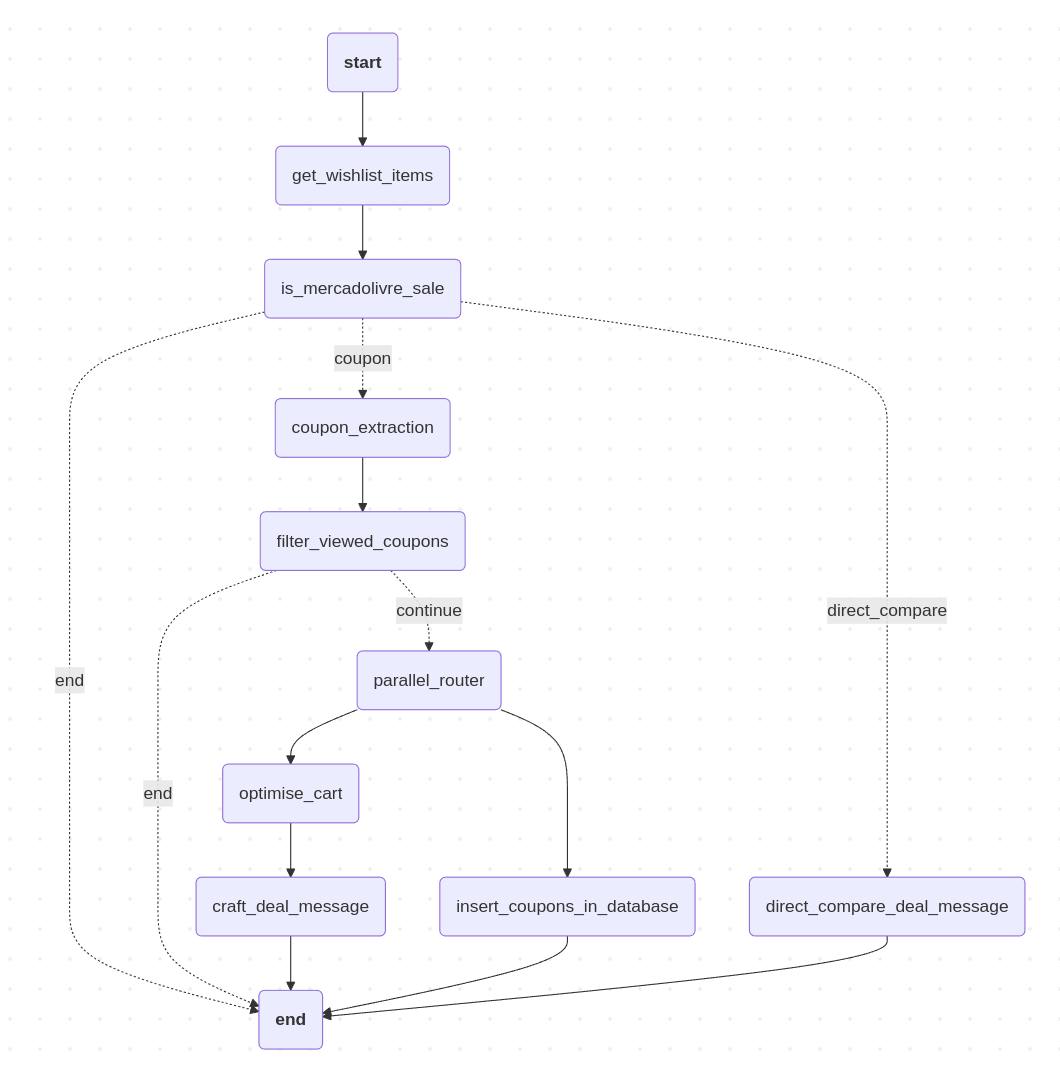
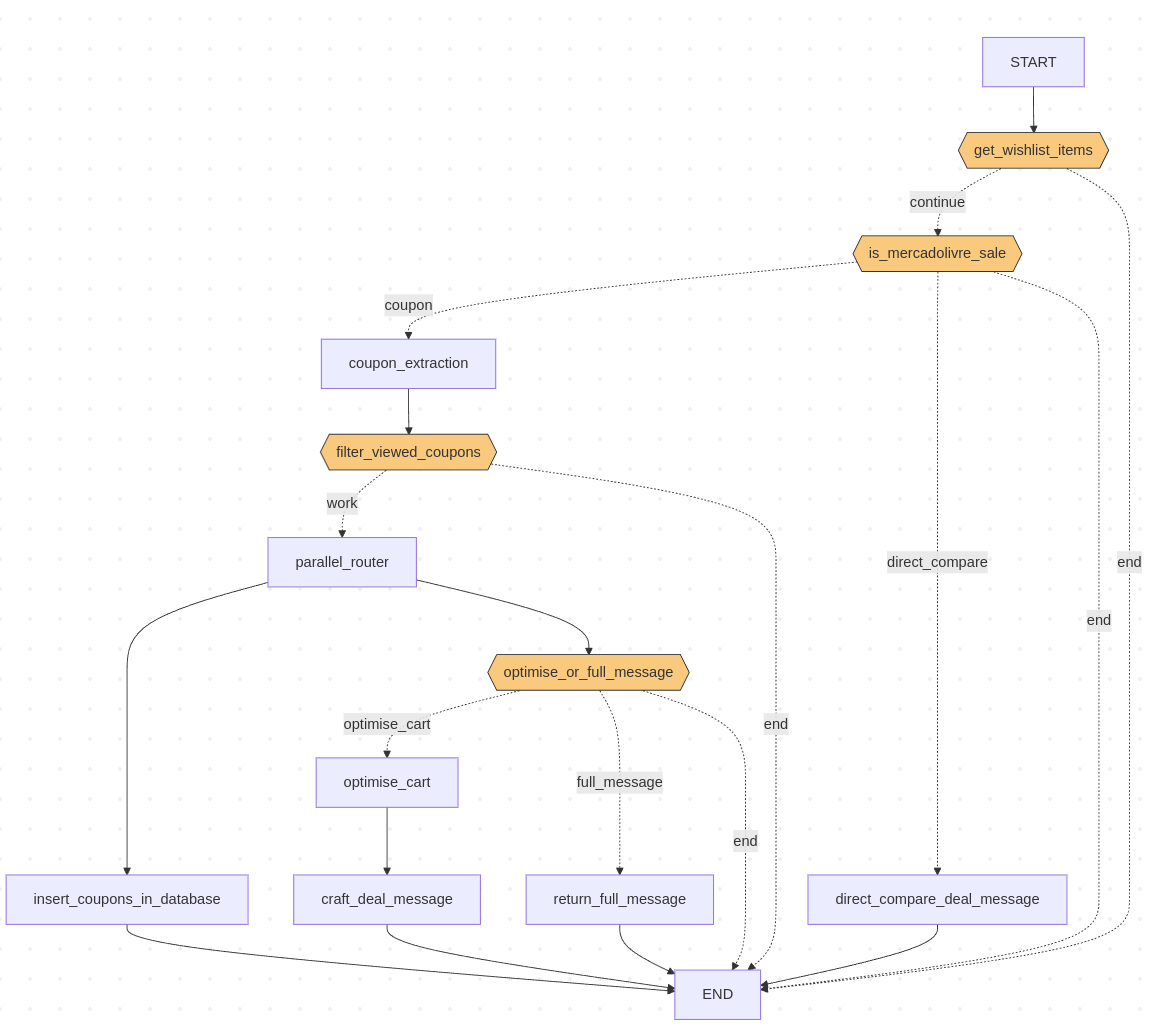
made changes to the workflow and to the postgres image to use embeddings

diff --git a/telegram_bots/sales_listener.py b/telegram_bots/sales_listener.py
@@ -5,6 +5,10 @@ import os
 from dotenv import load_dotenv
 import asyncio
 import sys
+import psycopg2
+from datetime import datetime
+from sentence_transformers import SentenceTransformer
+import numpy as np
 
 # Load environment variables
 load_dotenv()
@@ -40,6 +44,128 @@ DB_PORT = os.getenv("DATABASE_PORT", "5432")
 
 # Create connection string
 DATABASE_URL = f"postgresql://{DB_USER}:{DB_PASSWORD}@{DB_HOST}:{DB_PORT}/{DB_NAME}"
+
+# Initialize the embedding model (lazy loading - will load on first use)
+embedding_model = None
+
+def get_embedding_model():
+    """Get or initialize the embedding model"""
+    global embedding_model
+    if embedding_model is None:
+        # Load the model - this will download it if not already present
+        print("Loading embedding model...")
+        embedding_model = SentenceTransformer('all-MiniLM-L6-v2')
+        print("Embedding model loaded")
+    return embedding_model
+
+def get_embedding(text):
+    """Generate embedding for the given text using MiniLM"""
+    try:
+        if not text or text.strip() == "":
+            return None
+            
+        # Truncate text if it's too long
+        if len(text) > 5000:  # Arbitrary limit to avoid memory issues
+            text = text[:5000]
+            
+        model = get_embedding_model()
+        embedding = model.encode(text)
+        
+        # Convert to list for database storage
+        return embedding.tolist()
+    except Exception as e:
+        print(f"Error generating embedding: {e}")
+        return None
+
+def get_db_connection():
+    """Create and return a database connection"""
+    conn = psycopg2.connect(
+        user=DB_USER,
+        password=DB_PASSWORD,
+        host=DB_HOST,
+        port=DB_PORT,
+        database=DB_NAME
+    )
+    return conn
+
+def store_message(chat_title, message_text, message_id, sender_id):
+    """Store the message and its embedding in the database"""
+    try:
+        # Generate embedding for the message
+        embedding = get_embedding(message_text)
+        
+        conn = get_db_connection()
+        cursor = conn.cursor()
+        
+        # Insert the message into the telegram_messages table with embedding
+        if embedding:
+            cursor.execute(
+                """
+                INSERT INTO telegram_messages (chat_title, message_text, message_id, sender_id, embedding)
+                VALUES (%s, %s, %s, %s, %s)
+                """,
+                (chat_title, message_text, message_id, sender_id, embedding)
+            )
+        else:
+            # Insert without embedding if generation failed
+            cursor.execute(
+                """
+                INSERT INTO telegram_messages (chat_title, message_text, message_id, sender_id)
+                VALUES (%s, %s, %s, %s)
+                """,
+                (chat_title, message_text, message_id, sender_id)
+            )
+        
+        conn.commit()
+        cursor.close()
+        conn.close()
+        print(f"Message stored in database with embedding. ID: {message_id}")
+    except Exception as e:
+        print(f"Error storing message in database: {e}")
+
+def search_similar_messages(query_text, limit=5):
+    """Search for messages similar to the query text"""
+    try:
+        # Generate embedding for the query
+        query_embedding = get_embedding(query_text)
+        if not query_embedding:
+            return []
+            
+        conn = get_db_connection()
+        cursor = conn.cursor()
+        
+        # Search for similar messages using cosine similarity
+        cursor.execute(
+            """
+            SELECT id, chat_title, message_text, 
+                   1 - (embedding <=> %s) as similarity
+            FROM telegram_messages
+            WHERE embedding IS NOT NULL
+            ORDER BY embedding <=> %s
+            LIMIT %s
+            """,
+            (query_embedding, query_embedding, limit)
+        )
+        
+        results = cursor.fetchall()
+        cursor.close()
+        conn.close()
+        
+        # Format results
+        similar_messages = [
+            {
+                "id": row[0],
+                "chat_title": row[1],
+                "message_text": row[2],
+                "similarity": row[3]
+            }
+            for row in results
+        ]
+        
+        return similar_messages
+    except Exception as e:
+        print(f"Error searching similar messages: {e}")
+        return []
 
 def process_sales_message(chat_title, message_text):
     """Function that processes the received sales message"""
@@ -117,6 +243,14 @@ async def main():
     
     @client_listener.on(events.NewMessage(chats=SALES_GROUP.split(",")))
     async def sales_watcher(event):
+        # Store the message in the database
+        store_message(
+            event.chat.title, 
+            event.message.text, 
+            event.message.id,
+            event.message.sender_id if event.message.sender else None
+        )
+        
         # Call the processing function with the message details
         process_sales_message(event.chat.title, event.message.text)
 

diff --git a/agent/sales_evaluation_agent.py b/agent/sales_evaluation_agent.py
@@ -18,7 +18,9 @@ from agent.workflow_nodes import (
     route_after_filter,
     identity,
     State,
-    direct_compare_deal_message
+    direct_compare_deal_message,
+    optimise_or_full_message,
+    return_full_message
 )
 
 # Initialize the LLM for any local usage
@@ -45,10 +47,12 @@ def instantiate_workflow():
     workflow.add_node("coupon_extraction", coupon_extraction)
     workflow.add_node("filter_viewed_coupons", filter_viewed_coupons)
     workflow.add_node("optimise_cart", optimise_cart)
+    workflow.add_node("return_full_message", return_full_message)
     workflow.add_node("craft_deal_message", craft_deal_message)
     workflow.add_node("insert_coupons_in_database", insert_coupons_in_database)
     workflow.add_node("coupon_or_direct_compare", coupon_or_direct_compare)
     workflow.add_node("direct_compare_deal_message", direct_compare_deal_message)
+    workflow.add_node("optimise_or_full_message", optimise_or_full_message)
 
     workflow.add_edge(START, "get_wishlist_items")
     workflow.add_conditional_edges("get_wishlist_items", continue_or_end, {"continue": "is_mercadolivre_sale", "end": END})
@@ -61,31 +65,32 @@ def instantiate_workflow():
     )
 
     workflow.add_node("parallel_router", identity)
-
+    workflow.add_conditional_edges("parallel_router", optimise_or_full_message, {"optimise_cart": "optimise_cart", "full_message": "return_full_message", "end": END})
     # unconditional edges from the router to both workers
     workflow.add_edge("parallel_router", "insert_coupons_in_database")
-    workflow.add_edge("parallel_router", "optimise_cart")
 
     workflow.add_edge("optimise_cart", "craft_deal_message")
+    workflow.add_edge("return_full_message", END)
     workflow.add_edge("craft_deal_message", END)
     workflow.add_edge("direct_compare_deal_message", END)
+    workflow.add_edge("insert_coupons_in_database", END)
 
 
     app = workflow.compile()
-    #try:
-    #    with open("workflow_graph.png", "wb") as f:
-    #        f.write(app.get_graph().draw_mermaid_png(
-    #        curve_style=CurveStyle.LINEAR,
-    #        node_colors=NodeStyles(first="#ffdfba", last="#baffc9", default="#fad7de"),
-    #        wrap_label_n_words=9,
-    #        output_file_path=None,
-    #        draw_method=MermaidDrawMethod.PYPPETEER,
-    #        background_color="white",
-    #        padding=10,
-    #    ))
-    #except Exception as e:
-    #    app.get_graph().print_ascii()
-    #    print("Unable to save the graph image:",e)
+    try:
+        with open("workflow_graph.png", "wb") as f:
+            f.write(app.get_graph().draw_mermaid_png(
+            curve_style=CurveStyle.LINEAR,
+            node_colors=NodeStyles(first="#ffdfba", last="#baffc9", default="#fad7de"),
+            wrap_label_n_words=9,
+            output_file_path=None,
+            draw_method=MermaidDrawMethod.PYPPETEER,
+            background_color="white",
+            padding=10,
+        ))
+    except Exception as e:
+        app.get_graph().print_ascii()
+        print("Unable to save the graph image:",e)
     return app
 
 def run_workflow(message: str) -> Dict[str, Any]:

diff --git a/agent/workflow_nodes.py b/agent/workflow_nodes.py
@@ -2,7 +2,8 @@ from langchain_groq import ChatGroq
 from langchain_core.messages import AIMessage, HumanMessage, SystemMessage
 import re
 import json
-from typing import Literal, List, Dict, Any, TypedDict
+import operator
+from typing import Literal, List, Dict, Any, TypedDict, Annotated
 from decimal import Decimal
 import psycopg2
 from itertools import permutations, chain, combinations
@@ -84,7 +85,7 @@ def coupon_or_direct_compare(state) -> Literal["coupon", "direct_compare", "end"
     if state['should_continue'] == False:
         print("Decided to end")
         return "end"
-    elif state['direct_compare']:
+    elif state.get('direct_compare',False):
         print("Decided to direct compare")
         return "direct_compare"
     else:
@@ -366,6 +367,32 @@ def greedy_partitions(indices, prices, coupons):
         yield current
     if remaining:
         yield list(remaining)
+
+def optimise_or_full_message(state) -> Literal["optimise_cart", "full_message", "end"]:
+    """
+    Return "optimise_cart" if we should optimise the cart (coupons and rules present),
+    or "full_message" to send the full message.
+    """
+    cupons_with_rules = [coupon for coupon in state['coupons'] if coupon['has_rules'] == True]
+    cupons_without_rules = [coupon for coupon in state['coupons'] if coupon['has_rules'] == False]
+    
+    if len(cupons_with_rules) > 0:
+        print("Optimising cart")
+        return "optimise_cart"
+    elif len(cupons_without_rules) > 0:
+        print("Sending full message")
+        return "full_message"
+    else:
+        print("No coupons found")
+        return "end"
+
+def return_full_message(state):
+    """
+    Return the full message
+    """
+    print("Sending full message")
+    state['deal_message'] = "Nao consegui definir as regras dessa mensagem, mas pode ser relevante:\n" + state['message']
+    return state
 
 def optimise_cart(state):
     coupons:   List[Dict[str, Any]] = state.get("coupons", [])
